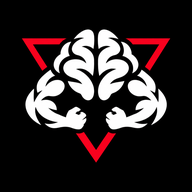
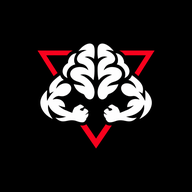
v1.9.3: ícono con más margen y encabezado centrado más grande
Claude-Session: https://claude.ai/code/session_01EobPxCnouuyYAVTdXxkvr9

Changed region(s): [[0.0938, 0.125, 0.9062, 0.8438]]

diff --git a/sw.js b/sw.js
@@ -1,7 +1,7 @@
 // Service worker: guarda la app en el celular para que abra sin conexión.
 // Cada vez que publiques cambios, sube el número de versión.
-const VERSION = "v25";
-const SHELL = ["./", "index.html", "manifest.webmanifest", "css/app.css", "icons/icon-192.png?v=ima", "icons/icon-512.png?v=ima", "icons/logo.png?v=ima", "js/seed-jr.js",
+const VERSION = "v26";
+const SHELL = ["./", "index.html", "manifest.webmanifest", "css/app.css", "icons/icon-192.png?v=ima2", "icons/icon-512.png?v=ima2", "icons/logo.png?v=ima2", "js/seed-jr.js",
   "js/app.js", "js/config.js", "js/db.js", "js/util.js", "js/ui.js", "js/state.js", "js/data.js", "js/foods.js", "js/realfoods.js", "js/icons.js",
   "js/client.js", "js/train.js", "js/coach.js", "js/demo.js", "js/voice.js", "js/push.js"];
 
@@ -25,7 +25,7 @@ self.addEventListener("fetch", (e) => {
 self.addEventListener("push", (e) => {
   let d = {}; try { d = e.data.json(); } catch {}
   const x = d.data || d.notification || d;
-  e.waitUntil(self.registration.showNotification(x.title || "IMA", { body: x.body || "", icon: "icons/icon-192.png?v=ima", badge: "icons/icon-192.png?v=ima", tag: x.tag || undefined, data: { url: x.url || "./" }, vibrate: [200, 100, 200] }));
+  e.waitUntil(self.registration.showNotification(x.title || "IMA", { body: x.body || "", icon: "icons/icon-192.png?v=ima2", badge: "icons/icon-192.png?v=ima2", tag: x.tag || undefined, data: { url: x.url || "./" }, vibrate: [200, 100, 200] }));
 });
 self.addEventListener("notificationclick", (e) => {
   e.notification.close();

diff --git a/js/client.js b/js/client.js
@@ -70,7 +70,7 @@ async function home() {
   const inProgress = sessions.find((s) => s.status === "curso");
   const cdays = c.cardio?.days || [];
   const trainTxt = inProgress ? `<small class="muted">Sesión en curso</small><b>${esc(inProgress.routineName)}</b>` : slot && !slot.rest ? `<small class="muted">${slot.status === "hecho" ? "Completado" : date === today ? "Hoy te toca" : "Este día toca"}</small><b>${esc(slot.name)}</b>` : `<small class="muted">Hoy</small><b>Descanso</b>`;
-  return `<header class="topbar ima"><img src="icons/logo.png?v=ima" class="hdr-logo" alt="IMA"><div class="brand-t">INTELIGENCIA MUSCULAR APLICADA</div>${bellBtn(pend)}</header>${dayStrip()}
+  return `<header class="topbar ima"><img src="icons/logo.png?v=ima2" class="hdr-logo" alt="IMA"><div class="brand-t">INTELIGENCIA MUSCULAR APLICADA</div>${bellBtn(pend)}</header>${dayStrip()}
   ${date === today ? `<details class="pendbox ${pend.length ? "" : "ok"}"><summary>${pend.length ? I.info : I.check}${pend.length ? `Tienes ${pend.length} pendiente${pend.length > 1 ? "s" : ""}` : "Todo al día"}${pend.length ? I.chevDown : ""}</summary>
     ${pend.length ? `<div class="pendlist">${pend.map((p) => `<a class="pend ${p.c}" href="#${p.to}"><span class="dot"></span>${esc(p.t)}${I.chev}</a>`).join("")}</div>` : ""}</details>` : ""}
   <div class="grid2">

diff --git a/js/app.js b/js/app.js
@@ -33,14 +33,14 @@ function loginView(msg = "") {
   root.className = "login";
   if (DEMO) {
     root.innerHTML = `<div class="login-box">
-      <img class="logo-img" src="icons/logo.png?v=ima" alt="IMA"><p class="muted">Modo demo: los datos se guardan solo en este navegador.</p>
+      <img class="logo-img" src="icons/logo.png?v=ima2" alt="IMA"><p class="muted">Modo demo: los datos se guardan solo en este navegador.</p>
       <button class="btn primary big" data-a="demoIn" data-uid="cli-demo">Entrar como cliente (celular)</button>
       <button class="btn big" data-a="demoIn" data-uid="coach-demo">Entrar como coach (escritorio)</button>
       <button class="btn ghost small" data-a="demoReset">Reiniciar datos de ejemplo</button><p class="ver">v${CONFIG.appVersion}</p></div>`;
     return;
   }
   root.innerHTML = `<form class="login-box" id="loginF">
-    <img class="logo-img" src="icons/logo.png?v=ima" alt="IMA">
+    <img class="logo-img" src="icons/logo.png?v=ima2" alt="IMA">
     ${msg ? `<p class="err">${esc(msg)}</p>` : ""}
     <label>Correo<input name="email" type="email" autocomplete="username email" required value="${esc(LS.get("lastEmail") || "")}"></label>
     <label>Contraseña<input name="pass" type="password" autocomplete="current-password" required minlength="6"></label>

diff --git a/js/train.js b/js/train.js
@@ -367,7 +367,7 @@ async function sessionImage(s) {
   const c = document.createElement("canvas"); c.width = W; c.height = H; const g = c.getContext("2d");
   g.fillStyle = "#0b0b0d"; g.fillRect(0, 0, W, H);
   const grd = g.createRadialGradient(W / 2, -100, 50, W / 2, -100, 900); grd.addColorStop(0, "rgba(160,15,25,.45)"); grd.addColorStop(1, "rgba(0,0,0,0)"); g.fillStyle = grd; g.fillRect(0, 0, W, 600);
-  try { const im = new Image(); im.src = "icons/logo.png?v=ima"; await im.decode(); g.save(); g.beginPath(); g.roundRect(P, 48, 120, 120, 28); g.clip(); g.drawImage(im, P, 48, 120, 120); g.restore(); } catch {}
+  try { const im = new Image(); im.src = "icons/logo.png?v=ima2"; await im.decode(); g.save(); g.beginPath(); g.roundRect(P, 48, 120, 120, 28); g.clip(); g.drawImage(im, P, 48, 120, 120); g.restore(); } catch {}
   const F = (w, sz) => `${w} ${sz}px Inter, system-ui, sans-serif`;
   g.fillStyle = "#fff"; g.font = F(800, 52); g.fillText(s.routineName, P + 150, 104);
   g.fillStyle = "#a1a1aa"; g.font = F(500, 30); g.fillText(`${fmtDate(s.date, true)}${s.endedAt ? " · " + Math.round((s.endedAt - s.startedAt) / 60000) + " min" : ""}`, P + 150, 150);

diff --git a/index.html b/index.html
@@ -9,14 +9,14 @@
 <meta name="apple-mobile-web-app-status-bar-style" content="black-translucent">
 <title>IMA · Inteligencia Muscular Aplicada</title>
 <link rel="manifest" href="manifest.webmanifest">
-<link rel="icon" href="icons/icon-192.png?v=ima">
-<link rel="apple-touch-icon" href="icons/icon-192.png?v=ima">
+<link rel="icon" href="icons/icon-192.png?v=ima2">
+<link rel="apple-touch-icon" href="icons/icon-192.png?v=ima2">
 <link rel="preconnect" href="https://fonts.googleapis.com"><link rel="preconnect" href="https://fonts.gstatic.com" crossorigin>
 <link rel="stylesheet" href="https://fonts.googleapis.com/css2?family=Inter:wght@400;500;600;700;800;900&display=swap">
 <link rel="stylesheet" href="css/app.css">
 </head>
 <body>
-<div id="app" class="login"><div class="login-box"><img class="logo-img" src="icons/logo.png?v=ima" alt="IMA"><p class="muted">Cargando…</p></div></div>
+<div id="app" class="login"><div class="login-box"><img class="logo-img" src="icons/logo.png?v=ima2" alt="IMA"><p class="muted">Cargando…</p></div></div>
 <script type="module" src="js/app.js"></script>
 </body>
 </html>

diff --git a/css/app.css b/css/app.css
@@ -321,6 +321,6 @@ code { background: var(--surf2); padding: 1px 5px; border-radius: 5px; }
 .bignum { font-size: 32px !important; font-weight: 800; text-align: center; padding: 14px !important; }
 
 /* Encabezado IMA: logo a la izquierda, nombre a la derecha */
-.topbar.ima { grid-template-columns: 44px 1fr 40px; gap: 10px; padding: 12px 12px 4px; }
+.topbar.ima { grid-template-columns: 44px 1fr 44px; gap: 6px; padding: 12px 12px 6px; align-items: center; }
 .topbar.ima .hdr-logo { width: 42px; height: 42px; margin: 0; border-radius: 10px; }
-.topbar.ima .brand-t { text-align: right; font-weight: 900; font-size: 11px; letter-spacing: .07em; white-space: nowrap; overflow: hidden; text-overflow: clip; line-height: 1.25; color: var(--txt); }
+.topbar.ima .brand-t { text-align: center; font-weight: 900; font-size: clamp(12px, 3.65vw, 17px); letter-spacing: .03em; line-height: 1.2; color: var(--txt); white-space: nowrap; }

diff --git a/js/coach.js b/js/coach.js
@@ -19,7 +19,7 @@ export async function coachView() {
   if (sec === "c" && cid) main = await clientPanel(cid, tab || "resumen");
   else if (sec === "lib") main = await library();
   else main = await overview(clients);
-  return `<aside class="side"><div class="brand"><img src="icons/logo.png?v=ima" class="logo-sm" alt="">${esc(CONFIG.appName)}</div>
+  return `<aside class="side"><div class="brand"><img src="icons/logo.png?v=ima2" class="logo-sm" alt="">${esc(CONFIG.appName)}</div>
   <a href="#coach" class="${!sec ? "on" : ""}">Clientes</a>
   ${clients.map((c) => `<a href="#coach/c/${c.id}/${tab || "resumen"}" class="sub ${cid === c.id ? "on" : ""}">${esc(c.name || "Sin nombre")}</a>`).join("")}
   <a href="#coach/lib" class="${sec === "lib" ? "on" : ""}">Biblioteca</a>

diff --git a/js/ui.js b/js/ui.js
@@ -100,7 +100,7 @@ export async function notify(title, body) {
   try {
     if (Notification.permission !== "granted") return;
     const reg = await navigator.serviceWorker?.getRegistration();
-    if (reg) reg.showNotification(title, { body, icon: "icons/icon-192.png?v=ima", vibrate: [300, 150, 300] });
+    if (reg) reg.showNotification(title, { body, icon: "icons/icon-192.png?v=ima2", vibrate: [300, 150, 300] });
     else new Notification(title, { body });
   } catch {}
 }

diff --git a/js/config.js b/js/config.js
@@ -27,7 +27,7 @@ export const CONFIG = {
   appName: "IMA",
   // Clave pública para avisos con la app cerrada (Firebase → Configuración → Cloud Messaging → Certificados web push)
   vapidKey: "BM_EJh8lKa6m4CNrG7l_Z7OIh8eGAr2MwJLrKfq0OrEVEGtAVNvedfJCGx4en_4zGRU-X8VI0s0jI0ORUyKsiJM",
-  appVersion: "1.9.2",
+  appVersion: "1.9.3",
 
   // Tiempos de comida
   meals: ["Desayuno", "Almuerzo", "Once", "Cena", "Colaciones"],
